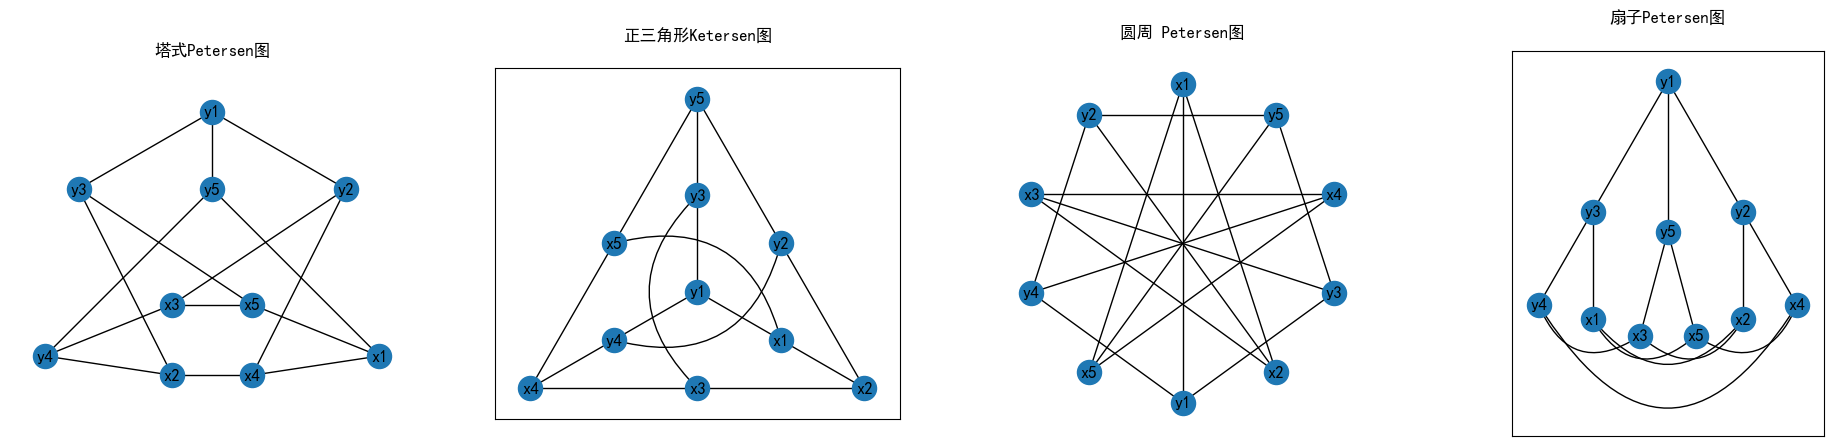
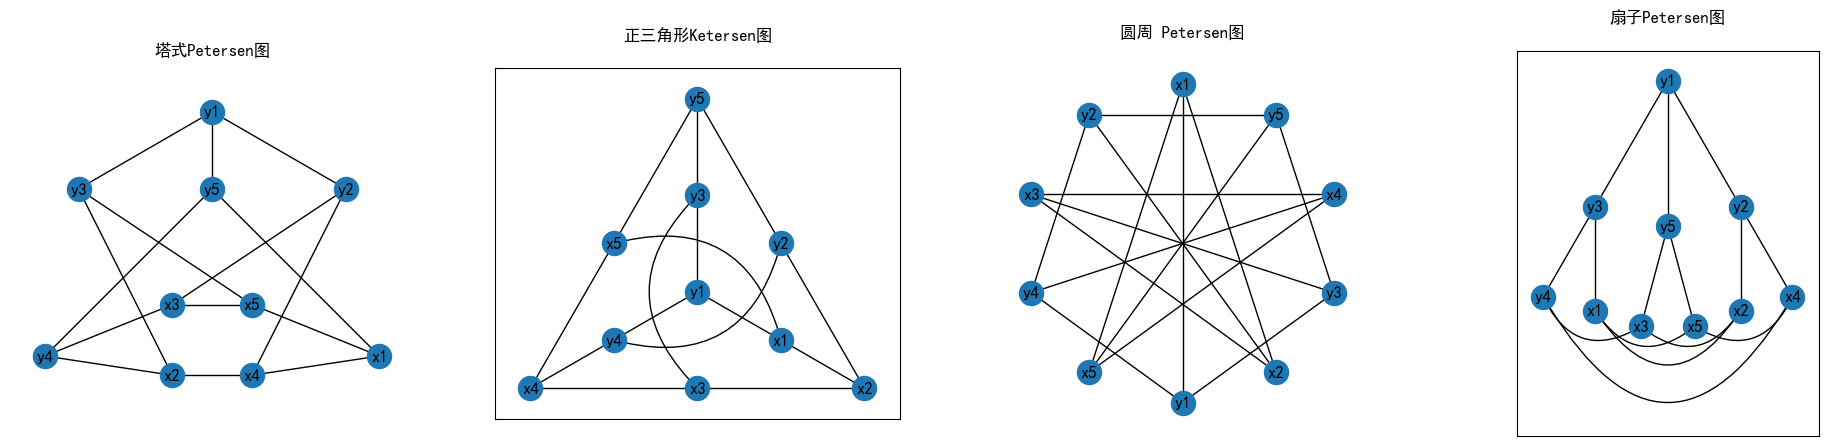
-完成图的同构概念
图论的结论很多，都放在了前几章，感觉有记忆成本

diff --git a/07networkx/15 Exercises/01 图论及其应用4/01 图的基本概念/1-2 图的同构/1-2-3-1.py b/07networkx/15 Exercises/01 图论及其应用4/01 图的基本概念/1-2 图的同构/1-2-3-1.py
@@ -311,14 +311,17 @@ def draw_fan_Petersen(ax):
          (7, 9)])
     excluded_edges = [(4, 6), (4, 9), (5, 7), (5, 8), (6, 8),
          (7, 9)]
+    mid_rad_edges = [(5,8)]
     big_rad_edges = [(4,9)]
     # 绘制顶点
     nx.draw_networkx_nodes(G, pos=pos, ax=ax, nodelist=g.nodes())
     # 绘制直线边
     nx.draw_networkx_edges(G, pos=pos, edgelist=[edge for edge in g.edges if edge not in excluded_edges ], ax=ax)
     # 绘制曲线边
-    nx.draw_networkx_edges(G, pos=pos, edgelist=[edge for edge in excluded_edges if edge not in big_rad_edges ], ax=ax, arrows=True, connectionstyle='arc3,rad=0.6')
-    nx.draw_networkx_edges(G, pos=pos, edgelist=[edge for edge in big_rad_edges ], ax=ax, arrows=True, connectionstyle='arc3,rad=0.8')
+    nx.draw_networkx_edges(G, pos=pos, edgelist=[edge for edge in excluded_edges if edge not in big_rad_edges and edge not in mid_rad_edges], ax=ax, arrows=True, connectionstyle='arc3,rad=0.55')
+    nx.draw_networkx_edges(G, pos=pos, edgelist=[edge for edge in mid_rad_edges], ax=ax, arrows=True,
+                           connectionstyle='arc3,rad=0.75')
+    nx.draw_networkx_edges(G, pos=pos, edgelist=[edge for edge in big_rad_edges ], ax=ax, arrows=True, connectionstyle='arc3,rad=0.85')
     nx.draw_networkx_labels(g, pos=pos, ax=ax, labels=info)
     # 使用 pad 参数增加标题和子图之间的距离
     ax.set_title('扇子Petersen图', pad=20)

diff --git a/07networkx/15 Exercises/01 图论及其应用4/01 图的基本概念/1-2 图的同构/1-2 图的同构.md b/07networkx/15 Exercises/01 图论及其应用4/01 图的基本概念/1-2 图的同构/1-2 图的同构.md
@@ -93,4 +93,42 @@ $$
 
 $$\boxed{\theta}$$
 ### 1.2.3 证明：图1.2和图1.3中所示的五个图以及下列三个图都是Peterson图同构。
-我先说明Peterson图。书上并没有明确定义，根据资料结合来讲就是：10个点，3-正则，围长5（就是经过5条边都回到原点，最短）
+我先说明Peterson图。书上并没有明确定义，根据资料结合来讲就是：10个点，3-正则，围长5（就是经过5条边都回到原点，最短）![[1-2-3-2.png]]
+![[1-2-3-1.png]]
+
+我都是使用Petersen生成图的方式制作的，并且增加了后面题目的顶点的标注（label），显然满足要求
+
+### 1.2.4 证明：若G是简单2部图，则$$\varepsilon (x)\le 
+\begin{cases}
+\frac{1}{4}v^2  & \text{若 } v \text{是偶数 } \\
+\frac{1}{4}(v^2-1) & \text{若 } v \text{是奇数}
+\end{cases}$$
+证明：如果能把一个图 $G$ 的顶点集 $V$ 划分成 $k$ 个**非空**子集 $V_1,V_2,...,V_k$（称为**部集**），使得 $G$ 的每条边的两个端点都分别属于**不同的部集**，则称 $G$ 为 **k部图**。这种划分 ($V_1,V_2,...,V_k$) 称为一个 **k部划分**。
+ **2部图（Bipartite Graph）**: $k=2$ 时的 $k$ 部图。当2部图为完全2部图的时候
+ $V_1+V_2=v$ 且$\varepsilon = V_1\times V_2=\frac{1}{4}v^2-(v-V_1)^2$
+ 当$v$为偶数时，$\varepsilon = \frac{1}{4}v^2$成立
+ 当$v$为奇数时，令$V_1= \frac{1}{2}(v-1),V_2= \frac{1}{2}(v+1)$时$\varepsilon = \frac{1}{4}v^2$成立
+ 所以简单2部图的边数小于等于完全2部图，成立
+### 1.2.5 写出k部图和完全$K_n(k)$的定义，并证明：
+#### (a)设G是简单k部图，每部分分别为$n_1,n_2,\dots,n_k$ 则$$\varepsilon(G)\le \frac{1}{2}\sum_{i=1}^{k} n_i\times(v-n_i)$$
+证明：如果能把一个图 $G$ 的顶点集 $V$ 划分成 $k$ 个**非空**子集 $V_1,V_2,...,V_k$（称为**部集**），使得 $G$ 的每条边的两个端点都分别属于**不同的部集**，则称 $G$ 为 **k部图**。这种划分 ($V_1,V_2,...,V_k$) 称为一个 **k部划分**。
+完全k部图（Complete k-partite Graph）**: 在一个 $k$ 部图中，如果**任意两个位于不同部集的顶点**之间都恰好有一条边相连，则称为完全 $k$ 部图。记作 $K_{n_1,n_2,...,n_k}$，其中 $n_i=|V_i|$。
+所以在完全k部图中，边数最大，当选i部集是，此部集的边数为$\frac{1}{2}n_i\times(v-n_i)$
+所以完全k部图的边为$\frac{1}{2}\sum_{i=1}^{k} n_i\times(v-n_i)$,普通图与完全图的关系是顶点相同，普通图的边集是完全图的子集的情况，所以边数$\le$ 完全图的边数 成立。
+#### (b) $$\varepsilon(K_n(k))=\frac{1}{2}k(k-1)n^2$$完全k部图（Complete k-partite Graph）**: 在一个 $k$ 部图中，如果**任意两个位于不同部集的顶点**之间都恰好有一条边相连，则称为完全 $k$ 部图。记作 $K_{n_1,n_2,...,n_k}$，其中 $n_i=|V_i|$。 其中$n_i=\frac{n}{k}$ 因为是完全k部图，则$\varepsilon(K_n(k)) = \frac{1}{2}\sum_{i=1}^{k} \frac{v}{k}\times(v-\frac{v}{k})=\frac{1}{2}k\times\frac{v}{k}\times(v-\frac{v}{k})=\frac{1}{2}\frac{v^2\times(k-1)}{k}$
+$\because v=n\times k,\therefore \varepsilon(K_n(k)) = \frac{1}{2}k(k-1)n^2$ 成立。
+
+### 1.2.6 如果$D\cong D^c$（或$G\cong G^c$）,则称简单图D(或G)为自补的（self complementary）证明
+#### （a）若D是自补图，则$\varepsilon=\frac{1}{2}v(v-1)$
+完全图D的边数为$\varepsilon(K_v)=v(v-1)$,由于自补图，则$\varepsilon(D)=\varepsilon(D^c)\text{且}\varepsilon(D)+\varepsilon(D^c)=\varepsilon(K_v)$
+得证。
+#### (b)若G是自补图，则$\varepsilon=\frac{1}{4}v(v-1)\text{且}v\equiv  0,1(mod 4)$
+与上面相同，注意$v(v-1)$能被4整除，所以$v\equiv  0,1(mod 4)$ 必须。
+
+### 1.2.7 设$H(n,i)$是例1.2.4中定义的图，证明：
+#### （a）对$H(n,i)$中任意相邻的两个顶点X和Y，|X|和|Y|有相同的奇偶性$\Leftrightarrow$i是偶数
+$H(n,i)$的定义：
+#### （b）若n是偶数且i是奇数，则$H(n,i)\cong H(n,n-i)$
+
+### 上面几个概念不在第二版里面，在第四版里面就先不做了
+
